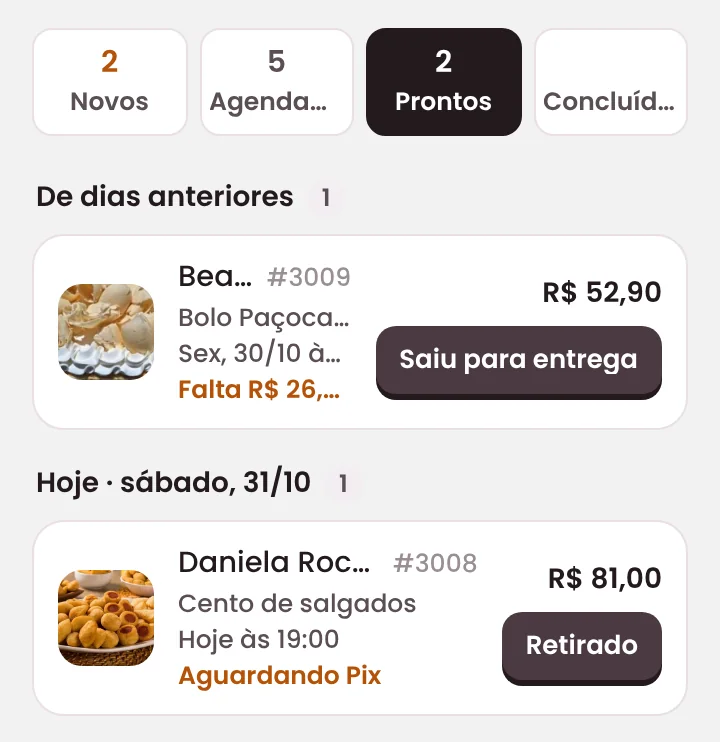
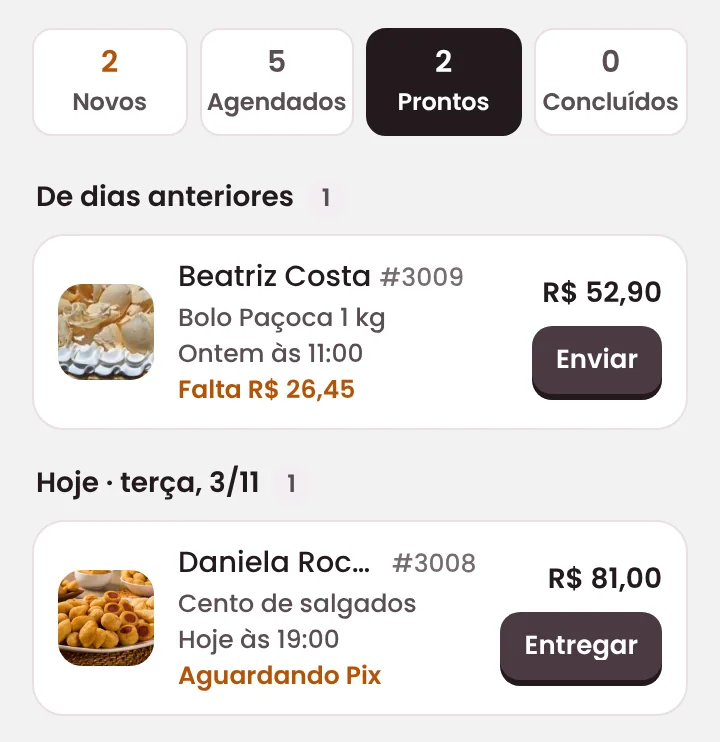
6.09: Pedidos sem confusão — grupo Em produção, botões com verbo, Concluídos por dia, filtro abre a aba certa
- Celular e lista do PC: grupo "Em produção" no topo (Agendados no celular)
- Botões sempre verbo: Produzir → Finalizar → Enviar → Entregar (antes "Pronto"/"Entregue" pareciam situação)
- Concluídos no celular separado por dia, com Hoje em cima (e aviso quando ainda não tem entrega hoje)
- Buscar ou filtrar com a aba vazia vai pra aba que tem o resultado
- A aba do celular volta como estava ao abrir um pedido e voltar
- Agenda e ajuda com os nomes novos

Claude-Session: https://claude.ai/code/session_01Tr1mYrTU9rTShFnbh3vuaV

diff --git a/src/pages/Pedidos.tsx b/src/pages/Pedidos.tsx
@@ -58,7 +58,7 @@ const MEDIDA_TABLET = '(min-width: 768px)'
 const CHAVE_TELA = 'doonly_pedidos_tela_'
 const VALE_POR = 30 * 60 * 1000               // saiu da lista há menos de meia hora
 const VALE_POR_AO_VOLTAR = 6 * 60 * 60 * 1000 // pelo "voltar" do aparelho ou do navegador
-type TelaGuardada = { em: number; busca: string; aba: 'encomenda' | 'pronta_entrega'; modo: 'lista' | 'quadro'; status: string[]; periodo: string; ini: string; fim: string; y: number }
+type TelaGuardada = { em: number; busca: string; aba: 'encomenda' | 'pronta_entrega'; modo: 'lista' | 'quadro'; status: string[]; periodo: string; ini: string; fim: string; y: number; sit?: string | null }
 function lerTela(uid: string): TelaGuardada | null {
   try {
     // tira o que ficou de outra conta neste aparelho
@@ -154,6 +154,8 @@ export default function Pedidos() {
       if (t && !comFiltroRapido && (faz < VALE_POR || (tipoNavegacao === 'POP' && faz < VALE_POR_AO_VOLTAR))) {
         setBusca(String(t.busca || '')); setAba(t.aba === 'pronta_entrega' ? 'pronta_entrega' : 'encomenda'); setModo(t.modo === 'quadro' ? 'quadro' : 'lista')
         setStatusSelecionados(t.status.filter(s => typeof s === 'string')); setPeriodoFiltro(String(t.periodo || 'todos')); setDataInicio(String(t.ini || '')); setDataFim(String(t.fim || ''))
+        // (6.09) a aba do celular também volta (antes abria sempre na primeira com pedido)
+        if (SITS.some(x => x.k === t.sit)) setSit(t.sit as Sit)
         rolagemPraVoltar.current = Number(t.y) > 0 ? Number(t.y) : null
       }
       setUserId(user.id)
@@ -165,10 +167,10 @@ export default function Pedidos() {
   // Guarda como a lista está: a cada mudança e ao sair da tela (com a rolagem do momento)
   useEffect(() => {
     if (!userId) return
-    const guardar = () => guardarTela(userId, { busca, aba, modo, status: statusSelecionados, periodo: periodoFiltro, ini: dataInicio, fim: dataFim, em: Date.now(), y: rolagemGuardada.current })
+    const guardar = () => guardarTela(userId, { busca, aba, modo, status: statusSelecionados, periodo: periodoFiltro, ini: dataInicio, fim: dataFim, em: Date.now(), y: rolagemGuardada.current, sit })
     guardar()
     return guardar // ao sair da tela (ou antes da próxima mudança): com a rolagem e a hora do momento
-  }, [userId, busca, aba, modo, statusSelecionados, periodoFiltro, dataInicio, dataFim])
+  }, [userId, busca, aba, modo, statusSelecionados, periodoFiltro, dataInicio, dataFim, sit])
   useEffect(() => {
     // com janela aberta a página fica presa no topo (trava da rolagem): essa posição não conta
     const aoRolar = () => { if (document.body.style.position !== 'fixed') rolagemGuardada.current = window.scrollY }
@@ -480,7 +482,7 @@ export default function Pedidos() {
   const agrupar = useCallback((lista: Pedido[], cel = false) => {
     // (11/10) "hoje" vem do useDiaAtual: com a lista aberta de um dia pro outro, os grupos se refazem sozinhos
     const [ah, mh, dh] = hoje.split('-').map(Number)
-    const hojeIso = hoje, amanhaIso = dataISO(new Date(ah, mh - 1, dh + 1))
+    const hojeIso = hoje, amanhaIso = dataISO(new Date(ah, mh - 1, dh + 1)), ontemIso = dataISO(new Date(ah, mh - 1, dh - 1))
     const DIAS = ['domingo', 'segunda', 'terça', 'quarta', 'quinta', 'sexta', 'sábado']
     const rot = (iso: string) => { const [y, m, d] = iso.split('-').map(Number); return `${DIAS[new Date(y, m - 1, d).getDay()]}, ${d}/${m}` }
     const porHora = (a: Pedido, b: Pedido) => String(a.data_entrega || '').localeCompare(String(b.data_entrega || '')) || String(a.horario_entrega || '').localeCompare(String(b.horario_entrega || ''))
@@ -490,7 +492,10 @@ export default function Pedidos() {
     add('aceitar', 'Para aceitar', lista.filter(p => !terminou(p) && precisaAceitar(p)).sort(porHora))
     // (6.04) celular: os que esperam o Pix ficam na aba Novos, num grupo logo depois dos pra aceitar
     if (cel) add('pix', 'Esperando o Pix', lista.filter(p => !terminou(p) && esperaPix(p)).sort(porHora))
-    const ativos = lista.filter(p => !terminou(p) && !precisaAceitar(p) && !(cel && esperaPix(p))).sort(porHora)
+    // (6.09) os que estão em produção ficam num grupo só, no topo: dá pra ver o que está no forno sem filtrar
+    const emProducao = (p: Pedido) => grupoDoStatus(p.status) === 'em_producao'
+    add('producao', 'Em produção', lista.filter(p => !terminou(p) && !precisaAceitar(p) && emProducao(p)).sort(porHora))
+    const ativos = lista.filter(p => !terminou(p) && !precisaAceitar(p) && !(cel && esperaPix(p)) && !emProducao(p)).sort(porHora)
     // (11/10) "Atrasado" pela regra única (lib/pedidoStatus): a data passou E o pedido ainda não ficou pronto.
     // O que já está pronto (ou saiu pra entrega) e é de um dia anterior não é atraso: fica num grupo à parte, pra não sumir da lista.
     const passados = ativos.filter(p => p.data_entrega && p.data_entrega.slice(0, 10) < hojeIso)
@@ -501,7 +506,22 @@ export default function Pedidos() {
     const futuros = ativos.filter(p => p.data_entrega && p.data_entrega > amanhaIso)
     ;[...new Set(futuros.map(p => p.data_entrega))].forEach(d => { const t = rot(d); add('d' + d, t.charAt(0).toUpperCase() + t.slice(1), futuros.filter(p => p.data_entrega === d)) })
     add('semdata', 'Sem data', ativos.filter(p => !p.data_entrega))
-    add('concluidos', 'Concluídos', lista.filter(terminou).sort((a, b) => -porHora(a, b)))
+    const fim = lista.filter(terminou).sort((a, b) => -porHora(a, b))
+    if (!cel) add('concluidos', 'Concluídos', fim)
+    else if (fim.length) {
+      // (6.09) celular: Concluídos separado por dia, com "Hoje" sempre em cima (o número da aba é o de hoje)
+      const diaDe = (p: Pedido) => String(p.data_entrega || '').slice(0, 10)
+      const titulo = (d: string) => {
+        if (!d) return 'Sem data'
+        const t = rot(d)
+        return d === hojeIso ? `Hoje · ${t}` : d === ontemIso ? `Ontem · ${t}` : d === amanhaIso ? `Amanhã · ${t}` : t.charAt(0).toUpperCase() + t.slice(1)
+      }
+      const dias = [...new Set(fim.map(diaDe))]
+      if (!dias.includes(hojeIso)) g.push({ chave: 'c-hoje', titulo: titulo(hojeIso), itens: [] })
+      dias.forEach(d => { const itens = fim.filter(p => diaDe(p) === d); if (d === hojeIso) g.push({ chave: 'c-hoje', titulo: titulo(d), itens }); else add('c' + (d || 'sem'), titulo(d), itens) })
+      // hoje sempre primeiro, mesmo quando tem entrega marcada pra frente
+      g.sort((a, b) => Number(b.chave === 'c-hoje') - Number(a.chave === 'c-hoje'))
+    }
     return g
   }, [hoje])
   const grupos = useMemo(() => agrupar(pedidosFiltrados), [agrupar, pedidosFiltrados])
@@ -514,6 +534,20 @@ export default function Pedidos() {
   }, [pedidosFiltrados, hoje])
   const sitAtual: Sit = sit ?? (nSit.aceitar > 0 ? 'aceitar' : nSit.agenda > 0 || nSit.prontos === 0 ? 'agenda' : 'prontos')
   const gruposCel = useMemo(() => agrupar(pedidosFiltrados.filter(p => sitDe(p) === sitAtual), true), [agrupar, pedidosFiltrados, sitAtual])
+  // (6.09) celular: buscou ou filtrou e a aba aberta ficou vazia? vai pra primeira aba que tem o resultado
+  // (antes o filtro achava o pedido, mas ele ficava escondido em outra aba)
+  const filtroAntes = useRef<string | null>(null)
+  useEffect(() => {
+    const agora = JSON.stringify([busca.trim(), statusSelecionados, periodoFiltro, dataInicio, dataFim])
+    const antes = filtroAntes.current
+    filtroAntes.current = agora
+    if (computador || antes === null || antes === agora) return
+    const n: Record<Sit, number> = { aceitar: 0, agenda: 0, prontos: 0, concluidos: 0 }
+    pedidosFiltrados.forEach(p => { n[sitDe(p)]++ })
+    if (n[sitAtual] > 0) return
+    const alvo = SITS.find(t => n[t.k] > 0)
+    if (alvo) setSit(alvo.k)
+  }, [busca, statusSelecionados, periodoFiltro, dataInicio, dataFim, computador, pedidosFiltrados, sitAtual])
 
   // (22/10) o filtro conta o que a aba aberta vai mostrar (computador: Encomendas ou Pronta entrega).
   // (01/11 · 5.99) no celular as abas já são as situações: contando só a aba aberta, todas as outras situações apareciam com 0
@@ -636,8 +670,10 @@ export default function Pedidos() {
                       {g.chave === 'aceitar' ? (
                         <div className="pdk-topo"><span>{g.itens.length === 1 ? 'Chegou pelo cardápio' : 'Chegaram pelo cardápio'}</span>
                           {g.itens.length > 1 && <button type="button" className="pdk-todos" onClick={() => aceitarTodos(g.itens)}>Aceitar todos</button>}</div>
-                      ) : !unico && <p className={`pdk-t${g.chave === 'atrasado' ? ' t-vermelho' : ''}`}>{g.titulo}<i>{g.itens.length}</i></p>}
-                      <div className="pdk-lista">{g.itens.map(p => <LinhaCompacta key={p.id} {...props(p)} />)}</div>
+                      ) : !unico && <p className={`pdk-t${g.chave === 'atrasado' ? ' t-vermelho' : ''}`}>{g.titulo}{g.itens.length > 0 && <i>{g.itens.length}</i>}</p>}
+                      {g.itens.length === 0
+                        ? <p className="pdk-nada">Nenhum pedido entregue hoje ainda.</p>
+                        : <div className="pdk-lista">{g.itens.map(p => <LinhaCompacta key={p.id} {...props(p)} />)}</div>}
                     </section>
                   )
                 })}

diff --git a/src/pages/Agenda.tsx b/src/pages/Agenda.tsx
@@ -520,7 +520,7 @@ export default function Agenda() {
   // (31/10 · 5.84) ⋮ do pedido no padrão MenuMais (antes abria uma janela de baixo)
   const itensDoPedido = (p: PedidoAgenda): ItemMenuMais[] => [
     { Ic: PencilSimple, t: "Editar pedido", sub: "Itens, data e pagamento", aoTocar: () => abrirEditar(p.id) },
-    ...(STATUS_PODE_FICAR_PRONTO.includes(p.status || "agendado") ? [{ Ic: Check, t: "Marcar pronto", sub: "O pedido está feito", aoTocar: () => marcarComoPronto(p) }] : []),
+    ...(STATUS_PODE_FICAR_PRONTO.includes(p.status || "agendado") ? [{ Ic: Check, t: "Finalizar", sub: "O pedido está pronto", aoTocar: () => marcarComoPronto(p) }] : []),
     { Ic: CalendarBlank, t: "Mudar a data da entrega", sub: "Escolha o novo dia", aoTocar: () => setReagendando(p) },
     { Ic: Copy, t: "Duplicar pedido", sub: "Um igual, para outra data", aoTocar: () => duplicarPedido(p) },
     { Ic: FilePdf, t: "Baixar PDF", sub: "Para imprimir ou mandar", aoTocar: () => baixarPdf(p) },
@@ -563,7 +563,7 @@ export default function Agenda() {
   const acaoAtencao = (p: PedidoResumo, atr: boolean): AcaoAtencao | null => {
     // (27/10) primeiro aceitar: "Pronto" só em pedido já aceito
     if (precisaAceitar(p as PedidoTexto)) return { t: "Aceitar", fn: () => mudarSituacao(p, "agendado"), principal: true };
-    if ((atr || p.status === "em_producao") && STATUS_PODE_FICAR_PRONTO.includes(p.status || "agendado")) return { t: "Pronto", fn: () => marcarComoPronto(p) };
+    if ((atr || p.status === "em_producao") && STATUS_PODE_FICAR_PRONTO.includes(p.status || "agendado")) return { t: "Finalizar", fn: () => marcarComoPronto(p) };
     if (grupoDe(p.status) === "agendado" && p.status !== "aguardando_pagamento") return { t: "Produzir", fn: () => mudarSituacao(p, "em_producao") };
     return null;
   };
@@ -847,7 +847,7 @@ function CartaoAgenda({ p, ocupado, aoAbrir, itensMenu, aoPronto, aoWhats }: { p
 
       {(podePronto || temTel) && (
         <div className={"ag3-pc-bts" + (podePronto && temTel ? "" : " um")}>
-          {podePronto && <Botao variante="secundario" tamanho="m" carregando={!!ocupado} onClick={aoPronto}>Marcar pronto</Botao>}
+          {podePronto && <Botao variante="secundario" tamanho="m" carregando={!!ocupado} onClick={aoPronto}>Finalizar</Botao>}
           {temTel && <Botao variante="secundario" tamanho="m" className="ag3-whats" icone={<IconeWhatsApp size={20} />} onClick={aoWhats}>WhatsApp</Botao>}
         </div>
       )}

diff --git a/src/components/pedidos/pedidoTexto.ts b/src/components/pedidos/pedidoTexto.ts
@@ -90,13 +90,14 @@ export function situacaoDe(p: Pedido): { nome: string; tom?: Tom } {
 
 /**
  * O próximo passo do pedido (10/10): o MESMO caminho e os MESMOS verbos na lista, no quadro e na tela do pedido.
- *   Retirada: Produzir → Marcar pronto (vai pra "Pronto pra retirar") → Marcar retirado.
- *   Entrega:  Produzir → Marcar pronto (vai pra "Pronto") → Saiu pra entrega → Marcar entregue.
- * Pedido de retirada que já está em "Pronto" (antigo) segue direto pra Marcar retirado.
+ *   (6.09) o botão é sempre um verbo (o próximo passo), pra não ser lido como a situação do pedido.
+ *   Retirada: Produzir → Finalizar (vai pra "Pronto pra retirar") → Entregar.
+ *   Entrega:  Produzir → Finalizar (vai pra "Pronto") → Enviar (vai pra "Saiu pra entrega") → Entregar.
+ * Pedido de retirada que já está em "Pronto" (antigo) segue direto pra Entregar.
  */
 export const VERBOS = {
-  receber: 'Recebi', aceitar: 'Aceitar', produzir: 'Produzir', pronto: 'Marcar pronto',
-  saiu: 'Saiu para entrega', entregue: 'Marcar entregue', retirado: 'Marcar retirado',
+  receber: 'Recebi', aceitar: 'Aceitar', produzir: 'Produzir', pronto: 'Finalizar',
+  saiu: 'Enviar', entregue: 'Entregar', retirado: 'Entregar',
 } as const
 export function proximoPasso(status: string, tipoEntrega?: string | null, origem?: string | null): { rotulo: string; proximo: string; pago?: boolean } | null {
   const g = grupoDoStatus(status)

diff --git a/src/lib/ajuda.ts b/src/lib/ajuda.ts
@@ -297,17 +297,17 @@ export const ARTIGOS: ArtigoAjuda[] = [
       {
         id: 'pronto',
         titulo: 'Marcar como pronto',
-        imagens: [{ src: '/ajuda/pedidos-pronto.webp', alt: 'Pedido da Ana Paula em produção com o botão Pronto', marcas: [
-          'Terminou? Toque em **Pronto**.',
+        imagens: [{ src: '/ajuda/pedidos-pronto.webp', alt: 'Pedido da Ana Paula em produção com o botão Finalizar', marcas: [
+          'Fica no grupo **Em produção**. Terminou? Toque em **Finalizar**.',
         ] }],
       },
       {
         id: 'entregar',
         titulo: 'Entregar',
-        imagens: [{ src: '/ajuda/pedidos-entregar.webp', alt: 'Aba Prontos com os botões Retirado e Saiu para entrega', marcas: [
+        imagens: [{ src: '/ajuda/pedidos-entregar.webp', alt: 'Aba Prontos com os botões Entregar e Enviar', marcas: [
           'Os pedidos ficam em **Prontos**.',
-          'O cliente buscou? **Retirado**.',
-          'Vai levar? **Saiu para entrega**.',
+          'O cliente buscou? **Entregar**.',
+          'Vai levar? **Enviar**. Chegou? **Entregar**.',
         ] }],
       },
       {

diff --git a/src/components/pedidos/CartaoPedido.tsx b/src/components/pedidos/CartaoPedido.tsx
@@ -190,7 +190,7 @@ export function LinhaCompacta({ p, aoAbrir, aoAvancar, mudando }: Props) {
   const pg = textoPagamento(p, falta)
   const quando = !p.data_entrega && p.tipo_venda === 'pronta_entrega' ? 'Pronta entrega' : dataCurta(p.data_entrega, p.horario_entrega)
   const dm = p.data_entrega ? `${p.data_entrega.slice(8, 10)}/${p.data_entrega.slice(5, 7)}` : ''
-  // botão curto pra caber na linha: "Marcar pronto" vira "Pronto", "Marcar entregue" vira "Entregue"
+  // (6.09) os botões já são verbos curtos (Produzir, Finalizar, Entregar); tira um "Marcar " que sobrar
   const rot = acao ? acao.rotulo.replace(/^Marcar /, '').replace(/^./, c => c.toUpperCase()) : ''
   return (
     <article className={`pdk${atr ? ' atr' : ''}`} tabIndex={0} aria-label={`Pedido #${p.numero || ''} de ${nomeCliente(p)}`} onClick={() => aoAbrir(p)} onKeyDown={teclaAbre(() => aoAbrir(p))}>

diff --git a/src/lib/comoTelas.tsx b/src/lib/comoTelas.tsx
@@ -67,7 +67,7 @@ export const COMO_PEDIDOS: Como = {
   artigo: "pedidos",
   dicas: [
     [Bell, <>Pedidos novos do cardápio chegam em <b>Para aceitar</b>. Ao aceitar, eles vão para a agenda.</>],
-    [ArrowRight, <>O botão de cada pedido avança para a <b>próxima etapa</b>: Produzir, Pronto e Entregue.</>],
+    [ArrowRight, <>O botão de cada pedido avança para a <b>próxima etapa</b>: Produzir, Finalizar, Enviar e Entregar.</>],
     [HandCoins, <>O valor que <b>falta receber</b> fica em destaque até você registrar o pagamento.</>],
     [Funnel, <>Use o <b>filtro</b> para escolher a situação e a data da entrega.</>],
   ],

diff --git a/src/components/pedidos/pedidos.css b/src/components/pedidos/pedidos.css
@@ -222,3 +222,5 @@
 @media (min-width: 601px) { .pdk-aba-sem { display: none; } }
 .pdk-aba-c { display: none; }
 @media (max-width: 600px) { .pdk-aba-l { display: none; } .pdk-aba-c { display: inline; } }
+/* (6.09) Concluídos no celular: hoje sem entrega ainda */
+.pdk-nada { margin: 0 0 4px; padding: 14px 16px; border: 1px dashed var(--ui-borda); border-radius: var(--ui-raio-cartao); font-size: 14px; color: var(--ui-texto-2); }

diff --git a/src/lib/versao.ts b/src/lib/versao.ts
@@ -2,4 +2,4 @@
  * Versão do app — aparece no menu da foto e vai junto nas sugestões e nos problemas relatados.
  * A cada atualização publicada, sobe 1 no número depois do ponto: 2.0 → 2.1 → 2.2 …
  */
-export const VERSAO_APP = "6.08";
+export const VERSAO_APP = "6.09";
